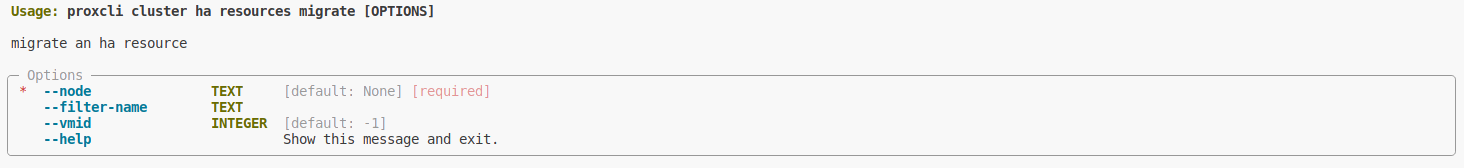
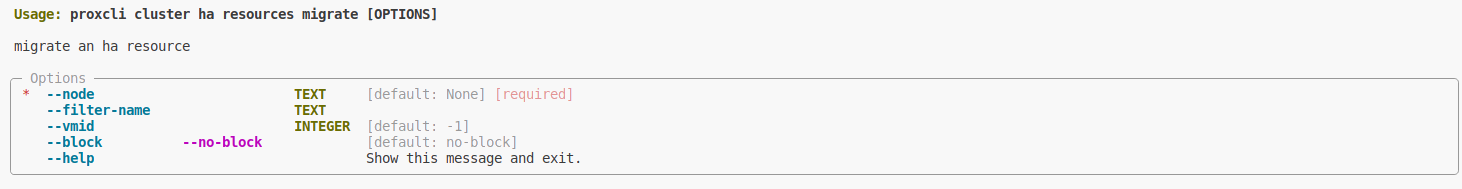
update cluster ha resources migrate documentation

diff --git a/content/commands/cluster/ha/resources/migrate/_index.md b/content/commands/cluster/ha/resources/migrate/_index.md
@@ -5,7 +5,7 @@ date: {}
 categories: []
 description: ""
 keywords: ""
-weight: 3
+weight: 4
 ---
 
 ![](/images/proxcli_cluster_ha_resources_migrate_help.png)
@@ -14,9 +14,10 @@ weight: 3
 
 |option|description|Allowed values|
 |---|---|---|
-|--vmid|The virtual machine id to migrate|integer|
-|--filter-name|a regex on virtual machines name used to select multiples virtual machines to be migrated|string|
-|--node|the target node to migrate the virtual machines to|string|
+|vmid|The virtual machine id to migrate|integer|
+|filter-name|a regex on virtual machines name used to select multiples virtual machines to be migrated|string|
+|node|the target node to migrate the virtual machines to|string|
+|block|wait for each resources to finish migration before starting another one (sequential mode)|string|
 
 {{% notice style="note" %}}
 vmid and filter-name are mutualy exclusive
@@ -34,4 +35,9 @@ proxcli cluster ha resources migrate --vmid 125 --node pve1
 
 ```bash
 proxcli cluster ha resources migrate --filter-name "^b4p-powerdns" --node pve1
+```
+- migrate multiple cluster ha resources to another node waiting for each resource to finish migration
+
+```bash
+proxcli cluster ha resources migrate --filter-name "^b4p-powerdns" --node pve1 --block
 ```
